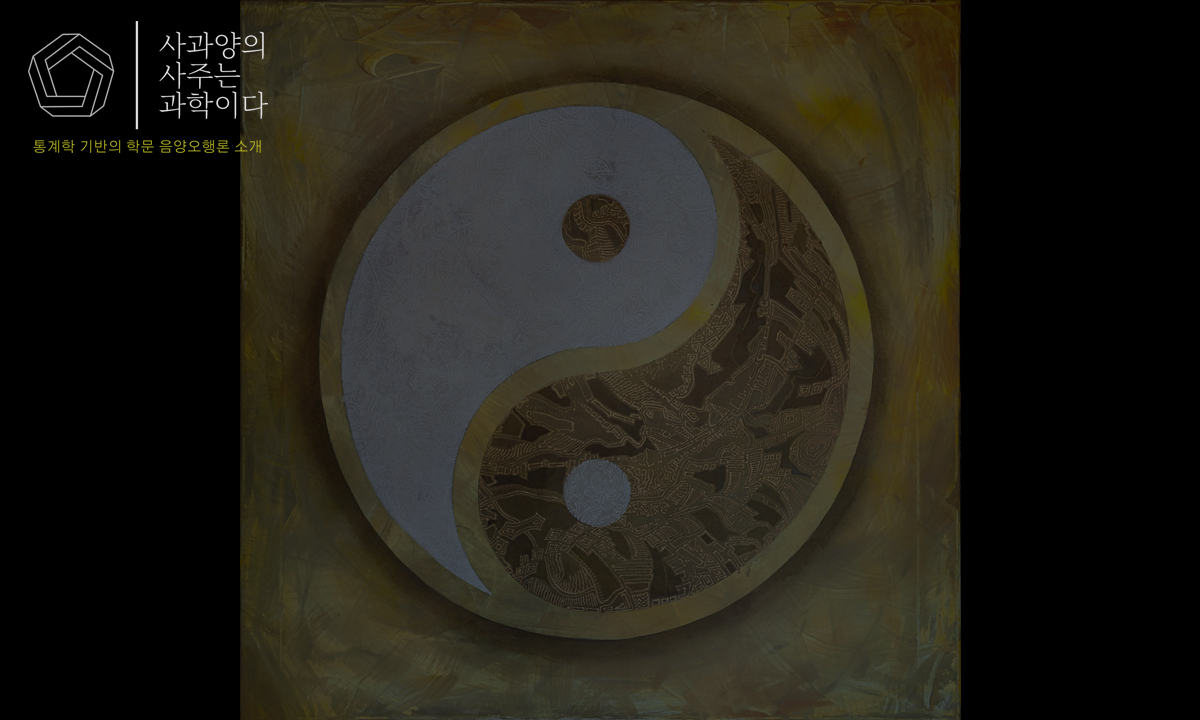
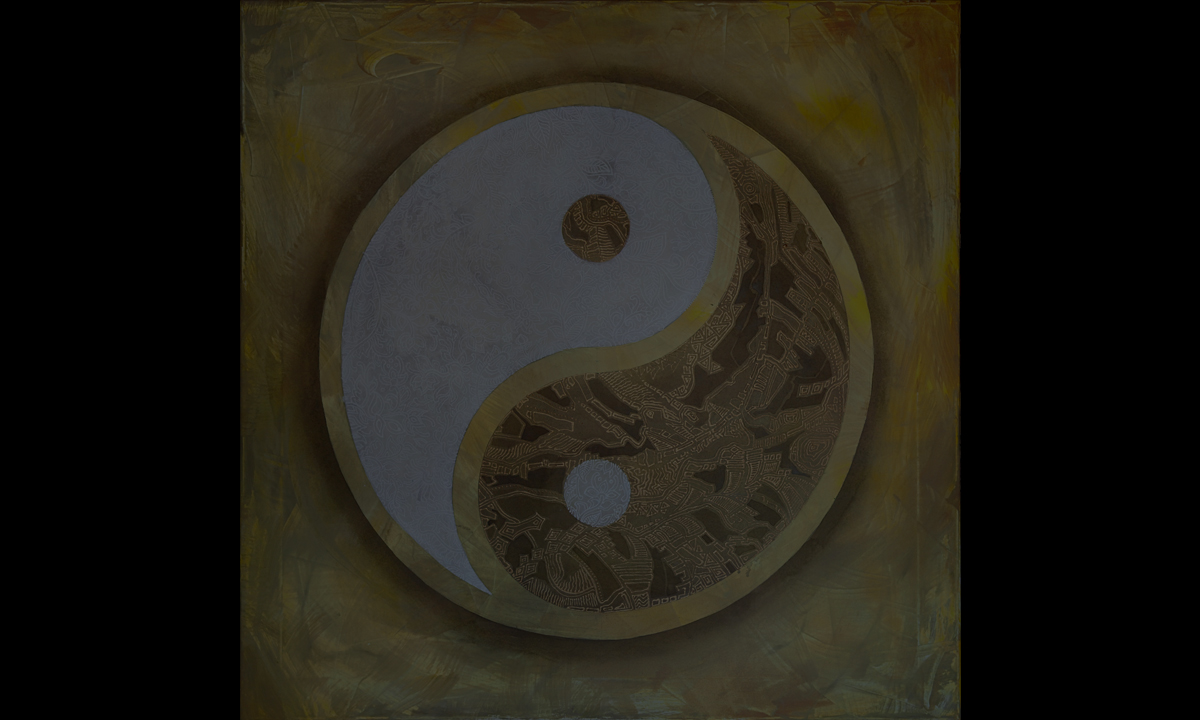
img files 및 h1 폰트크기 fix

Changed region(s): [[0.0308, 0.0306, 0.2158, 0.1528], [0.0308, 0.1833, 0.2158, 0.2139]]

diff --git a/assets/scss/_masthead.scss b/assets/scss/_masthead.scss
@@ -29,7 +29,7 @@ header.masthead {
   .site-heading {
     text-align: center;
     h1 {
-      font-size: 50px;
+      font-size: 35px;
       margin-top: 0;
     }
     .subheading {

diff --git a/assets/scss/_custom.scss b/assets/scss/_custom.scss
@@ -18,10 +18,6 @@ p {
   line-height: 2;
 }
 
-h1 {
-  font-size: 1.125em;
-}
-
 h2 {
   font-family: 'ELAND_Choice_B';
   margin-bottom: 2;
